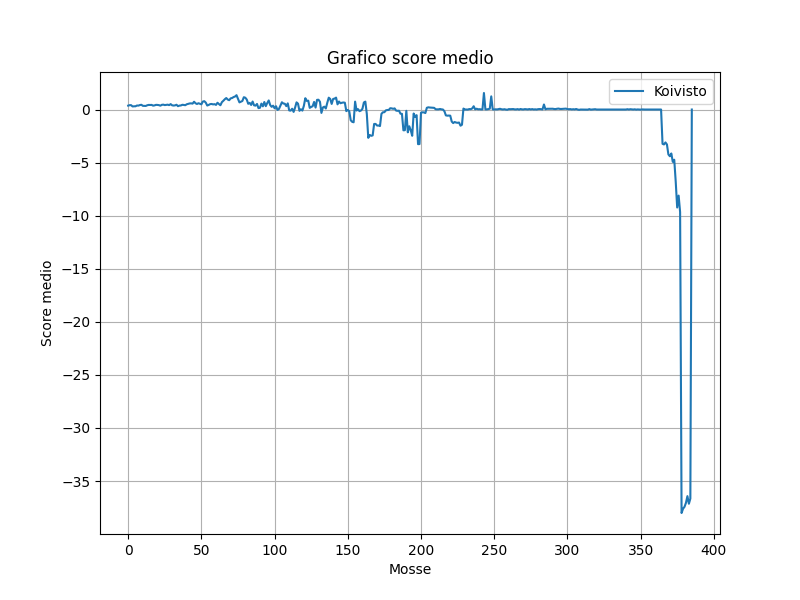
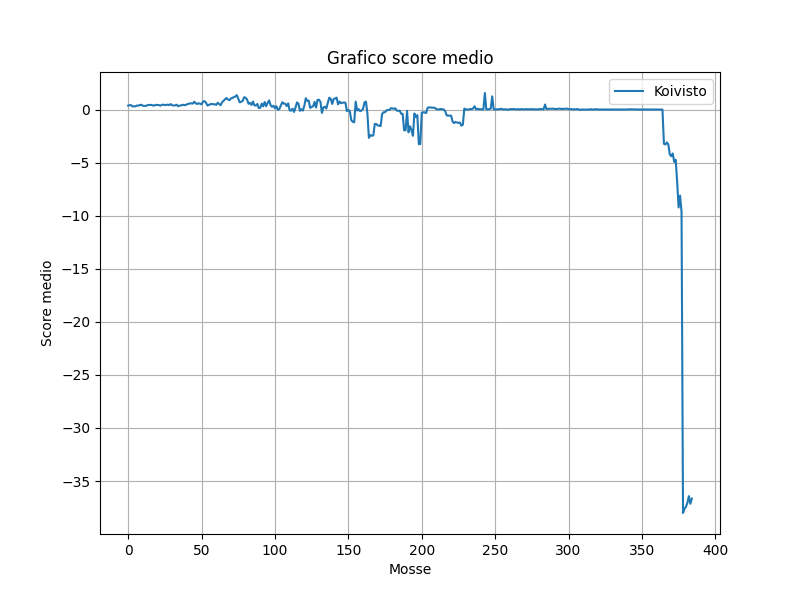
update dataset and fix ScoreGraph

diff --git a/tools/source_code/ChessScoreAnalyze.py b/tools/source_code/ChessScoreAnalyze.py
@@ -24,7 +24,6 @@ def get_dataset(pgn_path):
 
         # Trattamento delle mosse e dei commenti per ogni partita
         for node in game.mainline():
-            move = node.move
             comments = node.comment
             scores.append(comments)
 
@@ -40,7 +39,7 @@ def get_dataset(pgn_path):
 
         count += 1
 
-def avarage_calculate(csv_file):
+def avarage_calculation(csv_file):
     # Inizializza un dizionario per memorizzare le somme parziali e il conteggio delle colonne
     sums = {}
     counts = {}
@@ -68,7 +67,7 @@ def avarage_calculate(csv_file):
         # Creazione del grafico
     
     # Calcola le medie
-    averages = [sums[i] / counts[i] if counts[i] > 0 else 0.0 for i in range(max(sums.keys()) + 1)]
+    averages = [sums[i] / counts[i] if counts[i] > 0 else None for i in range(max(sums.keys()) + 1)]
 
     plt.figure(figsize=(8, 6))
     plt.plot(averages, label='Koivisto')
@@ -93,5 +92,5 @@ def avarage_calculate(csv_file):
         print(f"Colonna {i + 1}: {average}")
 
 
-get_dataset(r'/Users/lucacanali/Documents/GitHub/tirocinio_lucacanali/dataset/game_script_eros/koiv_lc0/1sec/Koivisto_lc0_1_fix.pgn')
-avarage_calculate('allScores.csv')
+get_dataset(r'C:\Users\canal\Documents\GitHub\tirocinio_lucacanali\dataset\game_script_eros\koiv_lc0\0,1sec\Koivisto_lc0_0.1_fix.pgn')
+avarage_calculation('allScores.csv')

diff --git a/tools/source_code/deviazione_standard.py b/tools/source_code/deviazione_standard.py
@@ -1,1 +1,27 @@
-#!TODO
+import pandas as pd
+import numpy as np
+
+# Carica il file CSV
+df = pd.read_csv(r'')
+
+# Calcola la media per ogni colonna (mossa)
+media_per_mossa = df.mean()
+
+# Calcola la deviazione standard per ogni colonna (mossa)
+deviazione_standard_per_mossa = df.std()
+
+# Ora hai la media e la deviazione standard per ogni mossa
+
+# Puoi anche plottare la media e la deviazione standard per avere una visualizzazione
+import matplotlib.pyplot as plt
+
+# Plot della media
+plt.plot(media_per_mossa, label='Media')
+
+# Plot della deviazione standard
+plt.plot(deviazione_standard_per_mossa, label='Deviazione Standard')
+
+plt.xlabel('Numero di mossa')
+plt.ylabel('Punteggio')
+plt.legend()
+plt.show()
